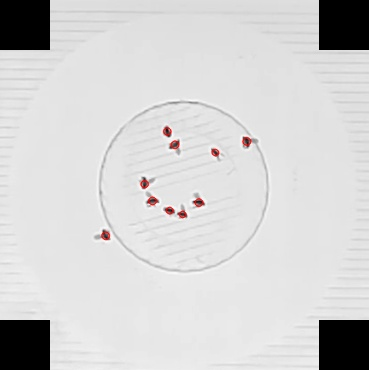
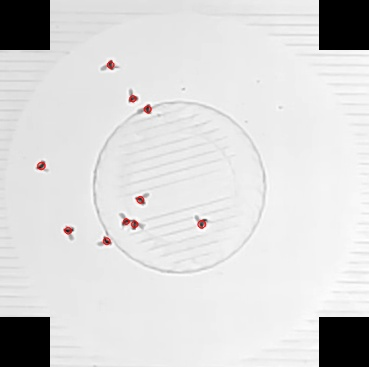
imshow blob detection

diff --git a/FlyTracking.2.00.py b/FlyTracking.2.00.py
@@ -22,7 +22,7 @@ import multiprocessing
 
 class Parameters(object):
     def __init__(self,args,num_arene):
-        self.flag_hide_tracks = False
+        self.flag_hide_tracks = True
         self.init_once = False
         self.flag_init_record = False
 
@@ -197,9 +197,14 @@ class Manager(object):
 
         pts = [p.pt for p in keypoints]
 
-        #im_with_keypoints = cv2.drawKeypoints(gray, keypoints, np.array([]),
-        #    (0,0,255), cv2.DRAW_MATCHES_FLAGS_DRAW_RICH_KEYPOINTS)
-        #cv2.imshow('figure ' + str(self.numArene), im_with_keypoints )
+        im_with_keypoints = cv2.drawKeypoints(gray, keypoints, np.array([]),
+            (0,0,255), cv2.DRAW_MATCHES_FLAGS_DRAW_RICH_KEYPOINTS)
+        height, width, depth = im_with_keypoints.shape
+        imgScale = 2
+        newX,newY = im_with_keypoints.shape[1]*imgScale, im_with_keypoints.shape[0]*imgScale
+        im_with_keypoints_resize = cv2.resize(im_with_keypoints,(int(newX),int(newY)))
+
+        cv2.imshow('figure ' + str(self.numArene), im_with_keypoints_resize )
         #cv2.imwrite('blobs' + str(self.numArene) + '.jpg', im_with_keypoints);
 
         ret,thresh2 = cv2.threshold(gray,self.minThreshold,255,cv2.THRESH_BINARY_INV)
@@ -210,7 +215,7 @@ class Manager(object):
         #if self.parameters.display == 1:
         #    cv2.imshow('maskMedian',thresh2_median)
 
-        contours, hierarchy = cv2.findContours(thresh2_median,cv2.RETR_TREE,cv2.CHAIN_APPROX_SIMPLE)
+        contours, _ = cv2.findContours(thresh2_median,cv2.RETR_TREE,cv2.CHAIN_APPROX_SIMPLE)
 
         self.pos_t = np.empty((0,1,51), dtype='float32')
         self.init_brief()
